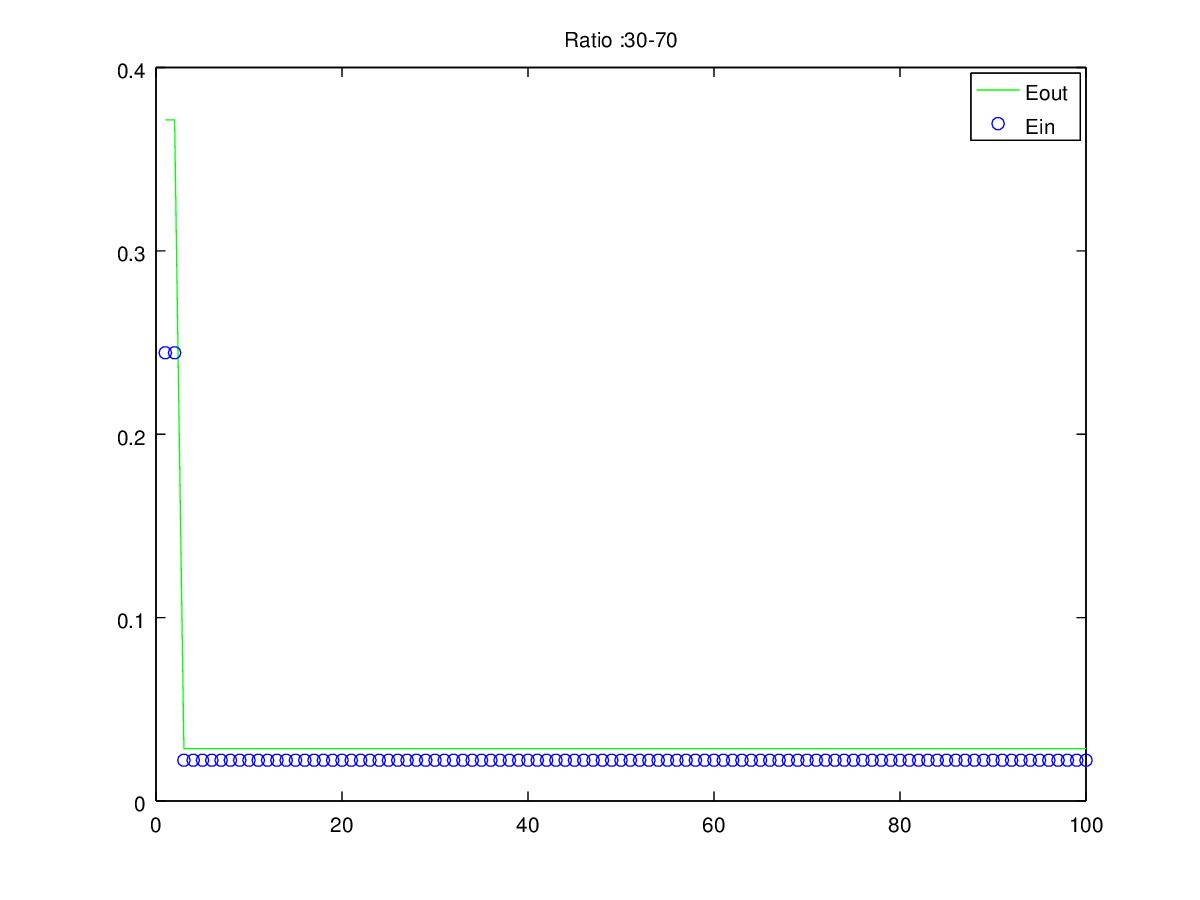
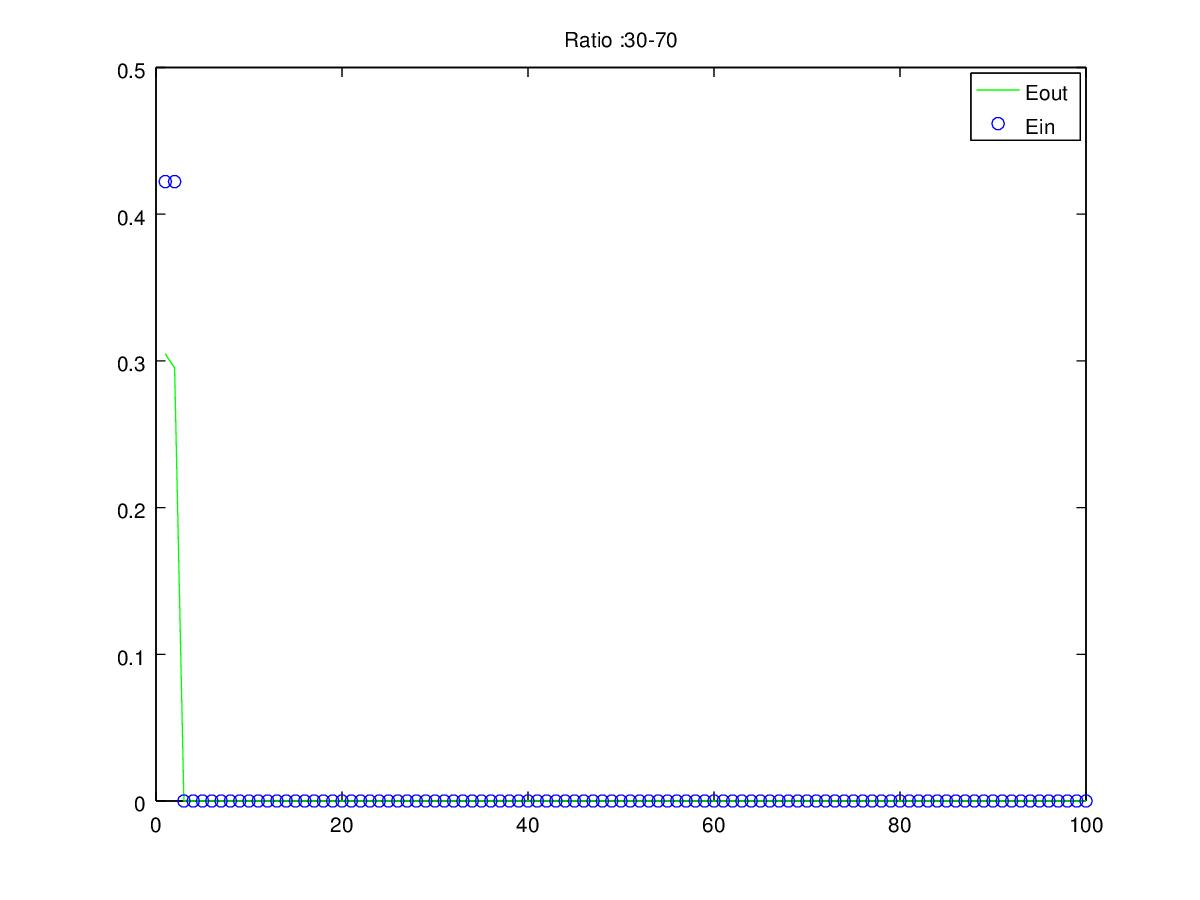
Made the PLA generic

diff --git a/lab2/pla.m b/lab2/pla.m
@@ -44,19 +44,19 @@ for i=samples
 
     Xtrain=complete_data(fvec==1,:);
     Xtest=complete_data(fvec==0,:);
-    Xtrainwo=[ones(1,size(Xtrain)(1))' Xtrain(:,1:4)];
-    Xtestwo=[ones(1,size(Xtest)(1))' Xtest(:,1:4)];
+    Xtrainwo=[ones(1,size(Xtrain)(1))' Xtrain(:,1:size(Xtrain)(2)-1)];
+    Xtestwo=[ones(1,size(Xtest)(1))' Xtest(:,1:size(Xtrain)(2)-1)];
     for it=1:100
-        out=perceptron(Xtrainwo ,Xtrain(:,5),[0.5 0.5 0.5 0.5 0.5],it);
+        out=perceptron(Xtrainwo ,Xtrain(:,size(Xtrain)(2)),[0.5 0.5 0.5 0.5 0.5],it);
         Xtrainout = out*Xtrainwo';
         Xtestout = out*Xtestwo';
-        miscount = sum(xor( Xtrainout<0, Xtrain(:,5)'<0 ));
+        miscount = sum(xor( Xtrainout<0, Xtrain(:,size(Xtrain)(2))'<0 ));
         Ein(it)= miscount/i;
         if(Ein(it)<Einmin)
             Einmin=Ein(it);
             Wmin=out;
         end
-        miscount = sum(xor( Xtestout<0, Xtest(:,5)'<0 ));
+        miscount = sum(xor( Xtestout<0, Xtest(:,size(Xtrain)(2))'<0 ));
         Eout(it)= miscount/(150-i);
     end
     figure;
